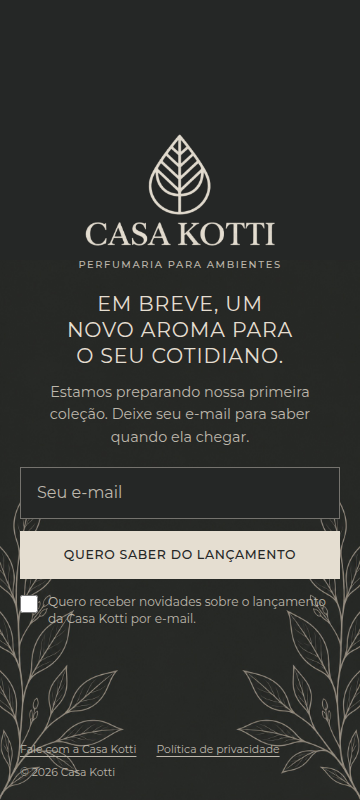
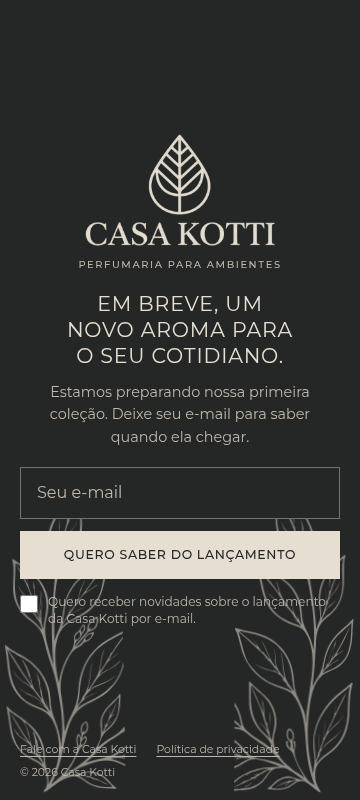
Tune foliage contrast after 2:3 scale check
Raise the single SVG opacity so the beige strokes match the reference more closely on phone widths.

diff --git a/theme/casa-kotti/assets/css/main.css b/theme/casa-kotti/assets/css/main.css
@@ -87,7 +87,7 @@ input:focus-visible {
 	height: 60%;
 	overflow: hidden;
 	color: var(--ck-foliage);
-	opacity: 0.48;
+	opacity: 0.55;
 }
 
 .ck-foliage--left {
